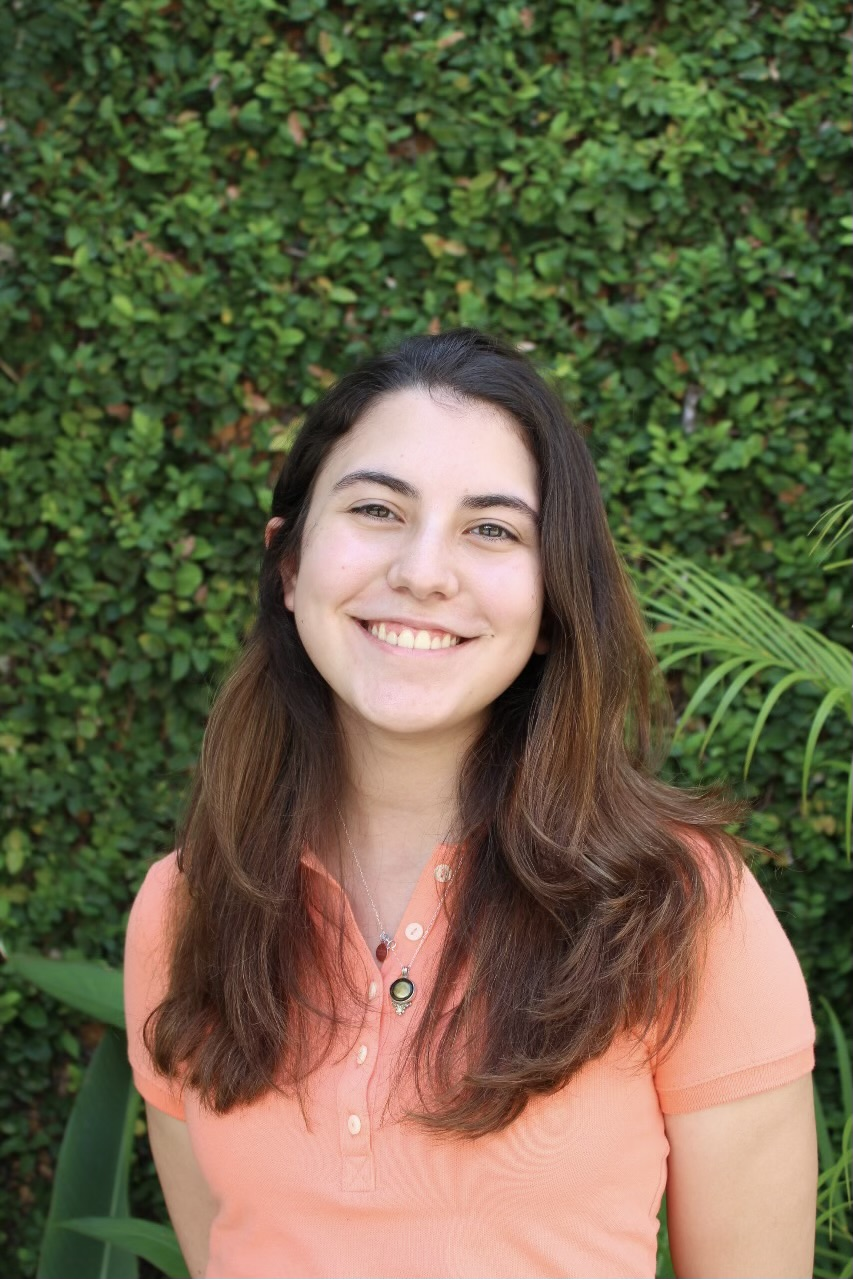
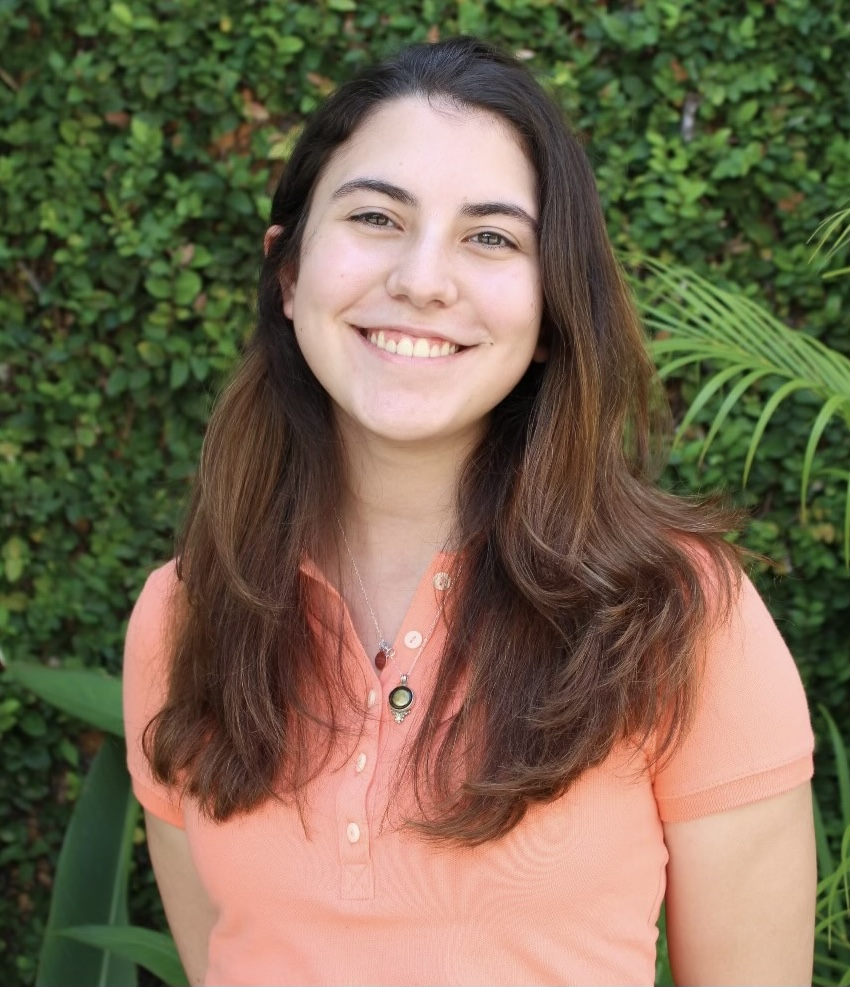
Doing some adjustments to the image

diff --git a/index.css b/index.css
@@ -17,9 +17,9 @@
 }
 
 #headshot{
-    width: 50%;
-    display: block;
-    margin: auto;
+    max-width: 50%;
+    padding-left: 0;
+
 }
 
 header,footer{
